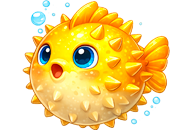
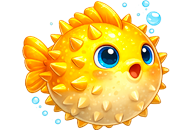
Add files via upload

diff --git a/index.html b/index.html
@@ -370,7 +370,7 @@
     <div class="overlay" id="startOverlay">
       <div class="panel">
         <img class="start-logo" src="./assets/logo-pescaria.png" alt="Pescaria - Aventura no Mar" />
-        <p>Mova o anzol para os lados para pegar os peixes no caminho.<br><strong>Peixes dourados valem mais pontos!</strong><br>Cuidado com o baiacu! Ele tira 50 pontos.</p>
+        <p>Mova o anzol para os lados para pegar os peixes no caminho.<br><strong>Peixes dourados valem 100 pontos!</strong><br>Cuidado com o baiacu! Ele tira 50 pontos.</p>
         <button id="startBtn">Jogar agora</button>
       </div>
     </div>
@@ -495,10 +495,10 @@
           type: fishType,
           value:
             fishType === 'gold'
-              ? 50
+              ? 100
               : fishType === 'baiacu'
                 ? -50
-                : 10,
+                : 50,
           caught: false
         });
       }
@@ -552,12 +552,12 @@
     function showScorePop(value, x, y) {
       const img = document.createElement('img');
       img.className = 'score-pop';
-      if (value === 50) {
-        img.src = './assets/score-50.png';
+      if (value === 100) {
+        img.src = './assets/score-100.png';
       } else if (value === -50) {
         img.src = './assets/score-minus-50.png';
       } else {
-        img.src = './assets/score-10.png';
+        img.src = './assets/score-50.png';
       }
       img.alt = `+${value} pontos`;
       img.style.left = `${x}px`;